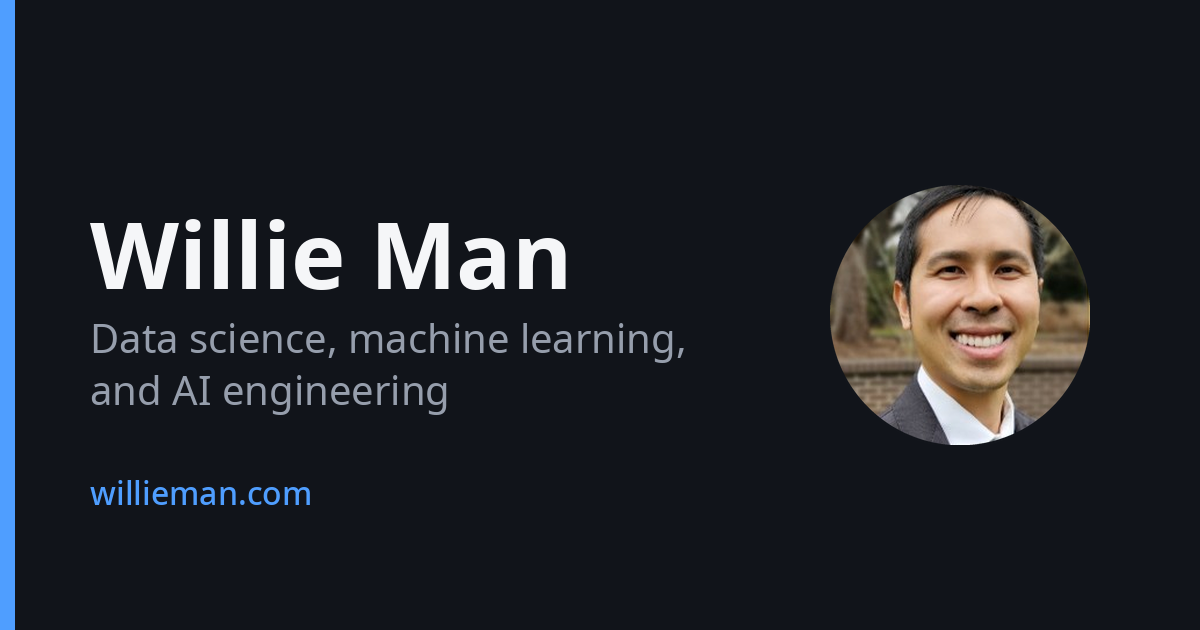
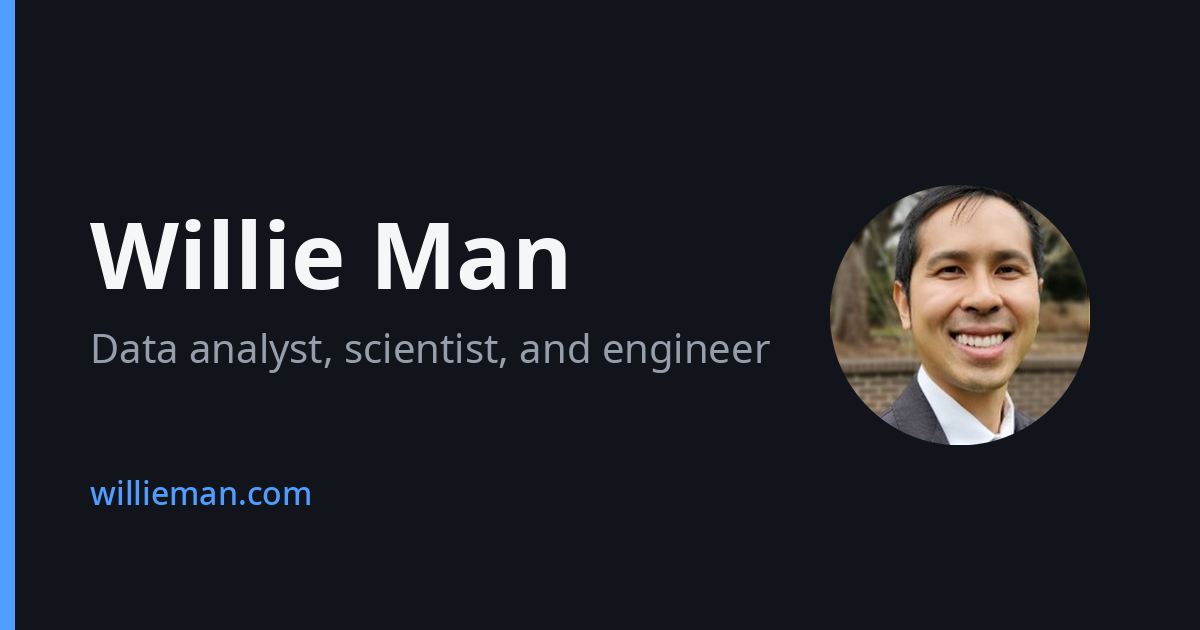
seo: descriptive home page title and large social cards
The theme hardcodes the home page <title> to site.title, and site.title
also drives the navbar brand, the home page H1, and post citations, so
the title could not be widened from config alone. Override the theme's
metadata.liquid to make the four changes it does not expose.

- add site.title_tagline, appended to <title> and og:title on the home
  page only, so the home page is no longer titled just "Willie Man"
- put the page name before the site name in og:title
- emit summary_large_image when an og_image exists, so the 1200x630
  card is not cropped to a square on X
- read the X handle from _data/socials.yml, where it actually lives, so
  twitter:site and twitter:creator are emitted again

Also broadens the positioning from "data scientist" to the resume's own
label across the description, keywords, home page, cv page, and the
social card artwork.

Claude-Session: https://claude.ai/code/session_01Pdn5CfgCG6agSah9rDfRQg

Changed region(s): [[0.0617, 0.5127, 0.6475, 0.6635]]

diff --git a/_pages/about.md b/_pages/about.md
@@ -3,7 +3,7 @@ layout: about
 title: about
 permalink: /
 subtitle: <a href='https://linktr.ee/williemaize'>Affiliations</a>. <a href='https://hihello.me/p/e51e021a-872b-4c2c-9c66-88bd9e69c354'>Contacts</a>. All Things Data
-description: Willie Man is a data scientist in Greater Houston, Texas. Project write-ups and notes on machine learning, AI engineering, and applied analytics.
+description: Willie Man is a data professional in Greater Houston, Texas, working across analytics, data engineering, and machine learning. Project write-ups and notes on building data systems that ship.
 
 profile:
   align: right

diff --git a/_pages/cv.md b/_pages/cv.md
@@ -5,7 +5,7 @@ title: cv
 nav: true
 nav_order: 5
 cv_pdf: Willie_Man_cv.pdf
-description: Curriculum vitae for Willie Man, data scientist — experience, education, projects, and skills across machine learning, AI engineering, and analytics.
+description: Curriculum vitae for Willie Man — experience, education, projects, and skills across data analysis, data engineering, data quality, and machine learning.
 toc:
   sidebar: left
 ---
